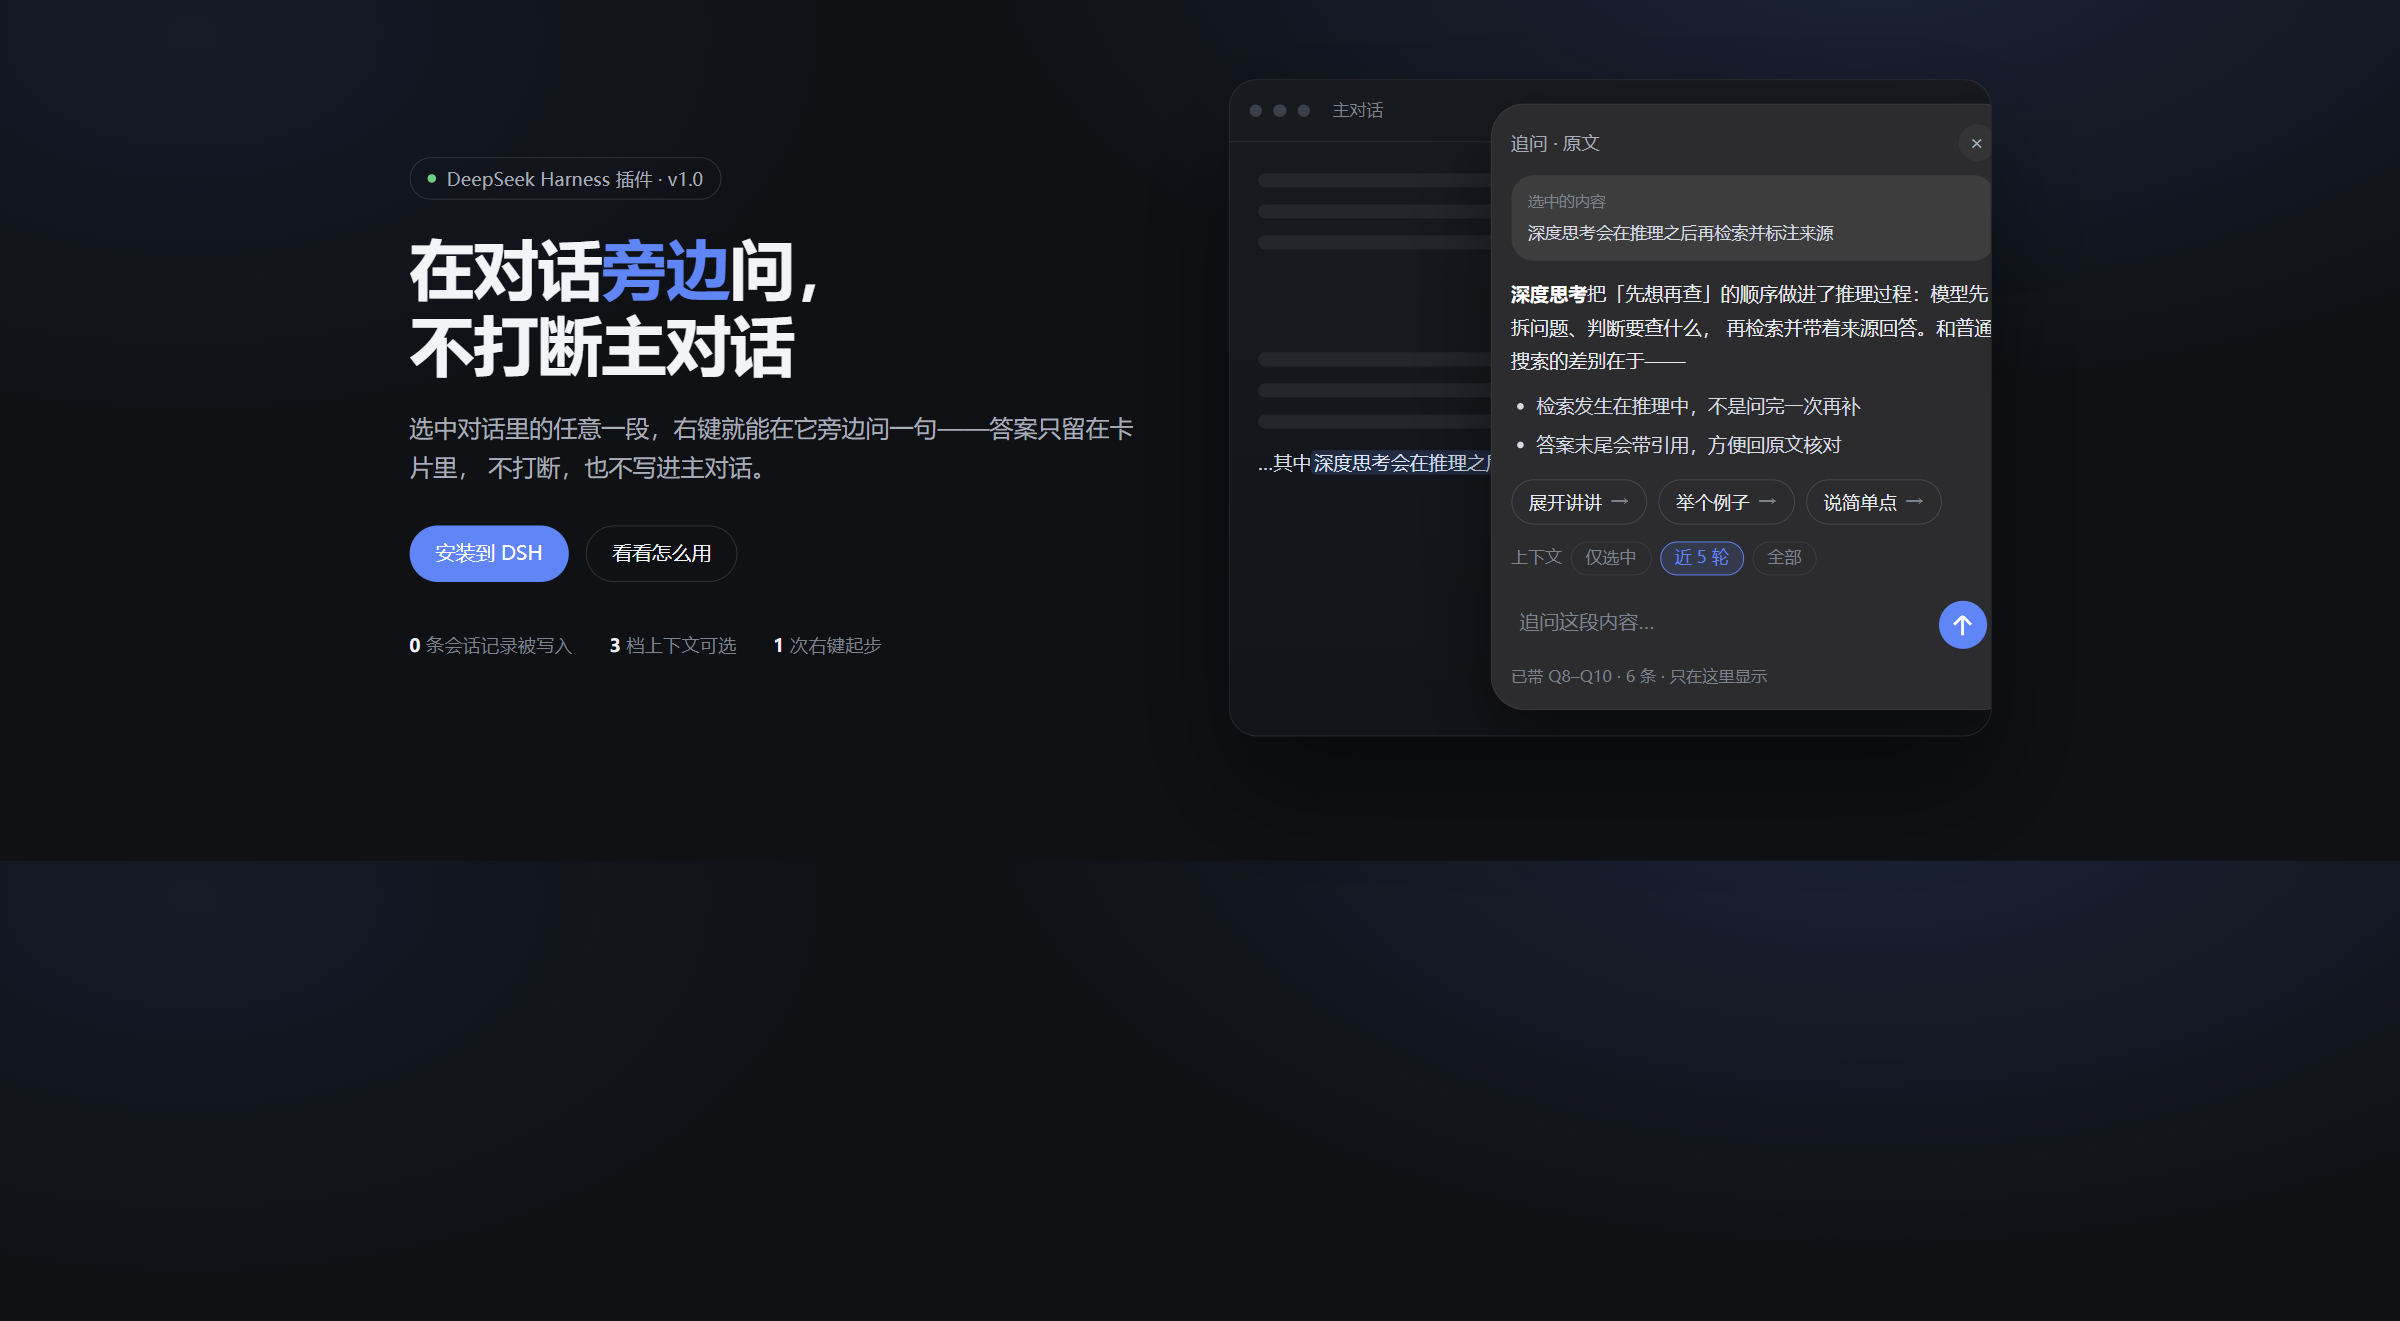
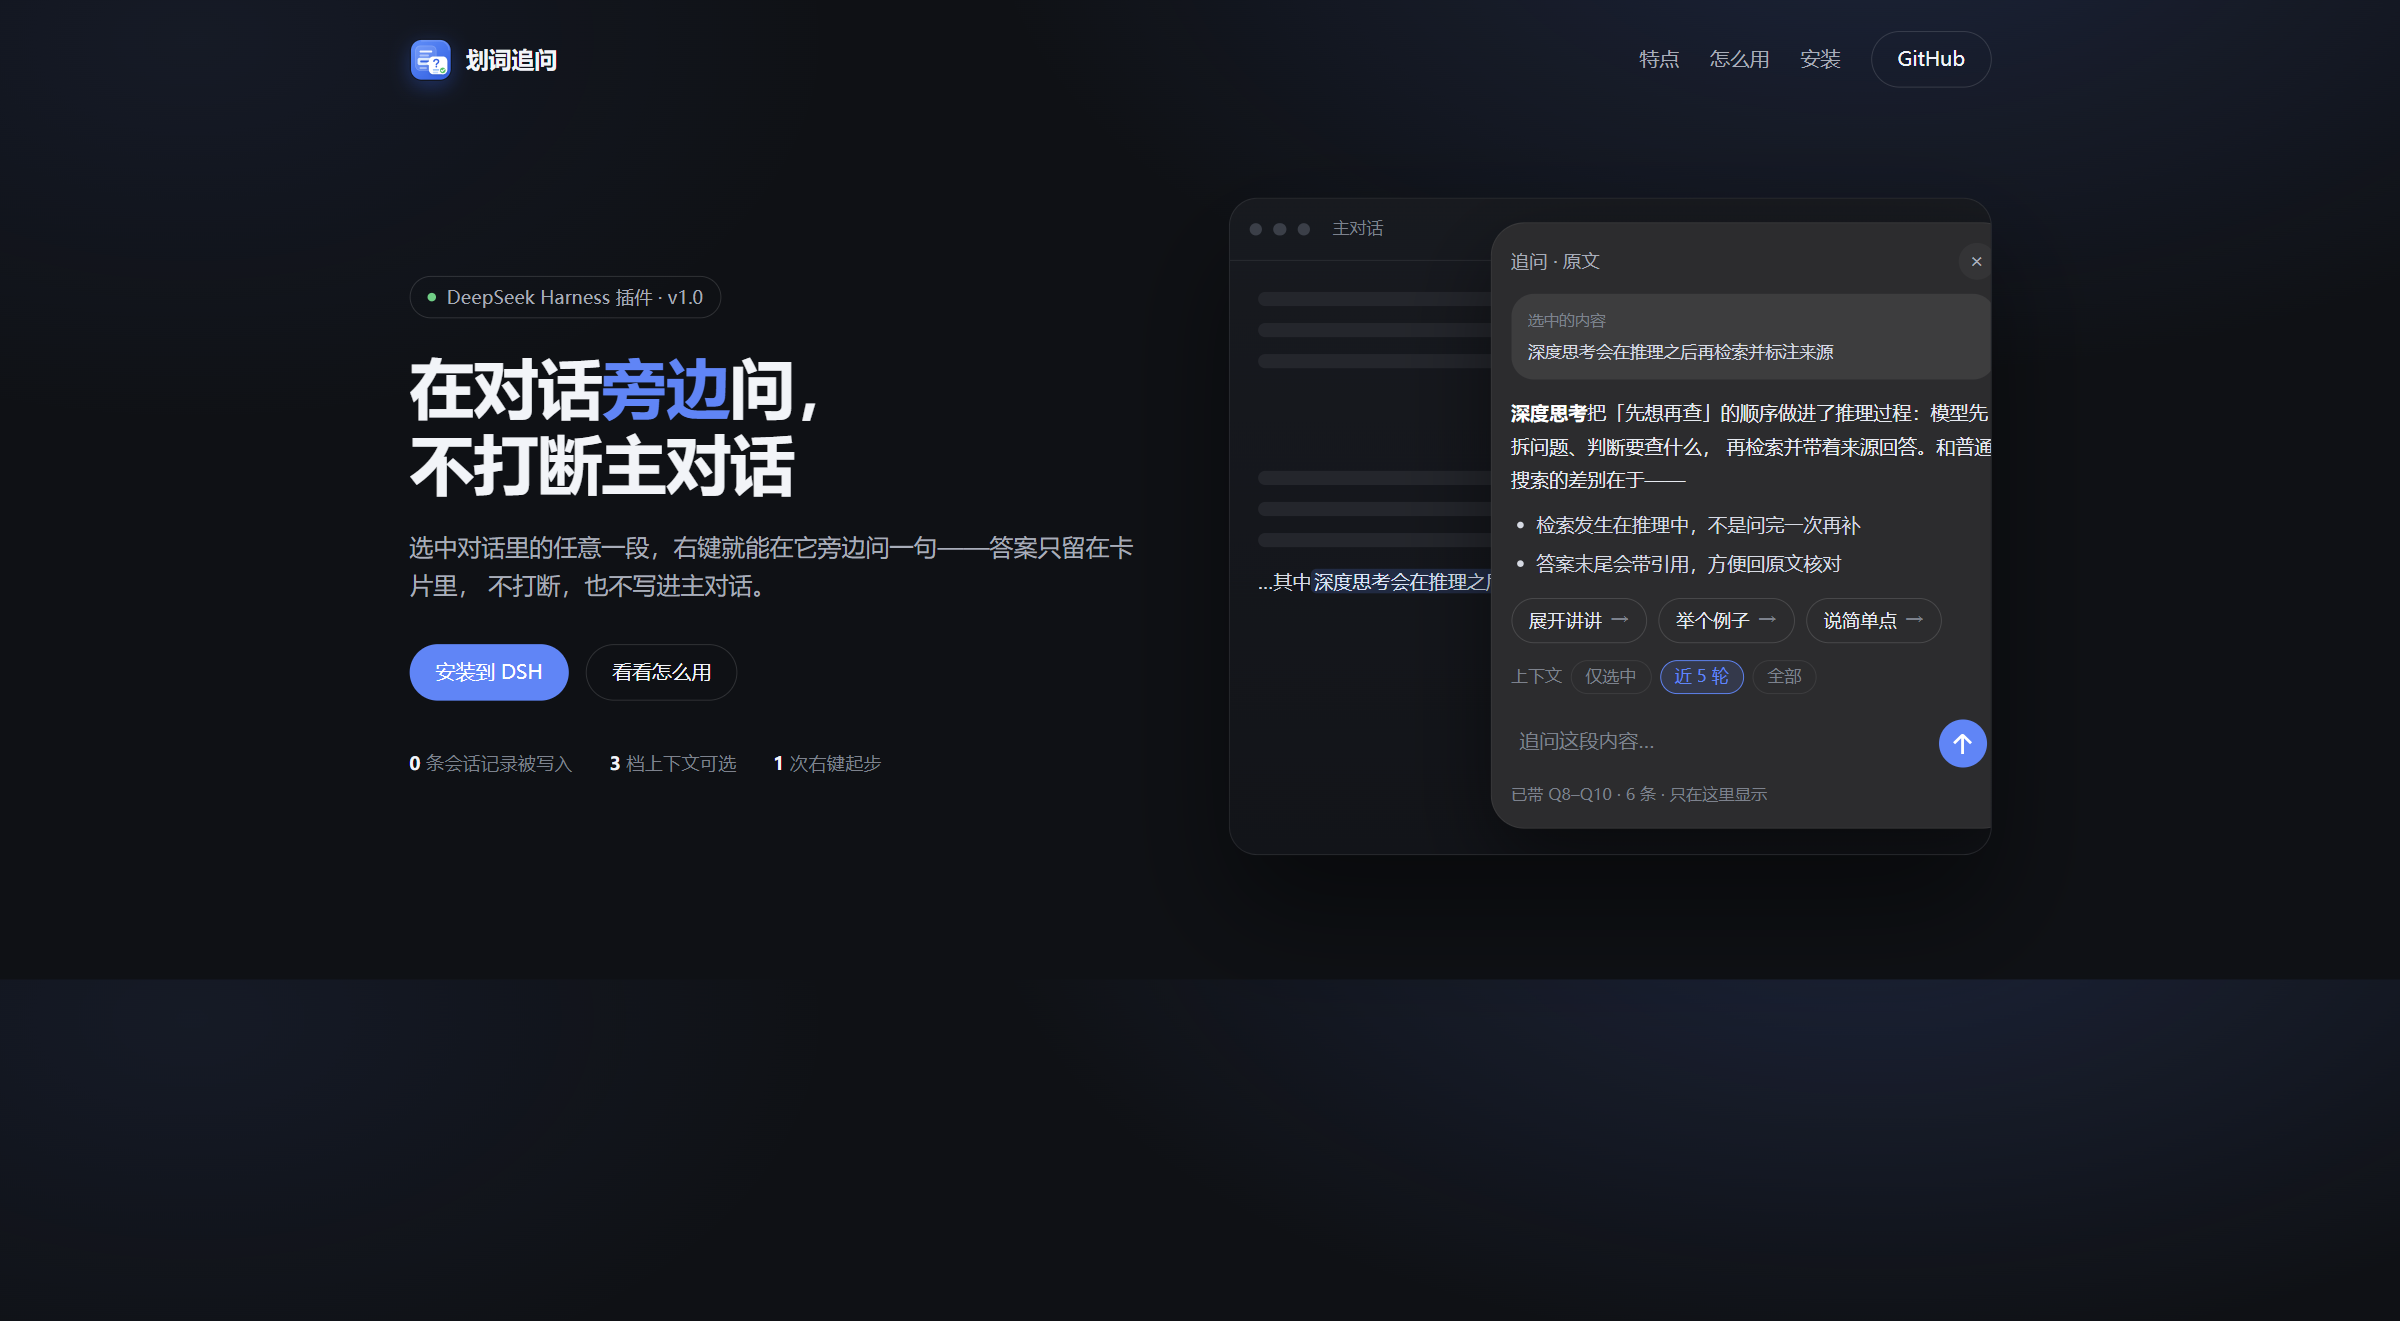
feat: 换成正式图标，展示页品牌位同步

diff --git a/site/index.html b/site/index.html
@@ -43,9 +43,10 @@
   .nav { display: flex; align-items: center; justify-content: space-between; padding: 22px 0; }
   .brand { display: flex; align-items: center; gap: 10px; font-weight: 600; letter-spacing: 0.2px; }
   .brand-mark {
-    width: 30px; height: 30px; border-radius: 9px; display: grid; place-items: center;
-    background: linear-gradient(150deg, var(--blue), #3556d8); color: #fff; font-size: 15px; font-weight: 700;
+    width: 30px; height: 30px; border-radius: 9px; display: block; overflow: hidden; flex: 0 0 auto;
+    box-shadow: 0 4px 14px rgba(37, 99, 235, 0.35);
   }
+  .brand-mark svg { display: block; width: 100%; height: 100%; }
   .nav-links { display: flex; align-items: center; gap: 22px; color: var(--muted); font-size: 14px; }
   .nav-links a:hover { color: var(--text); }
   .btn {
@@ -173,7 +174,38 @@
 <body>
   <div class="wrap">
     <header class="nav">
-      <div class="brand"><span class="brand-mark">追</span> 划词追问</div>
+      <div class="brand">
+        <span class="brand-mark" aria-hidden="true">
+          <svg viewBox="0 0 64 64" fill="none" xmlns="http://www.w3.org/2000/svg">
+            <defs>
+              <linearGradient id="sf-bg" x1="10" y1="6" x2="54" y2="60" gradientUnits="userSpaceOnUse">
+                <stop stop-color="#4F8CFF"/><stop offset="1" stop-color="#2563EB"/>
+              </linearGradient>
+              <filter id="sf-shadow" x="19" y="23" width="44" height="39" filterUnits="userSpaceOnUse" color-interpolation-filters="sRGB">
+                <feDropShadow dx="0" dy="2" stdDeviation="2" flood-color="#123B8F" flood-opacity="0.28"/>
+              </filter>
+            </defs>
+            <rect x="2" y="2" width="60" height="60" rx="16" fill="url(#sf-bg)"/>
+            <path d="M18 3.5H46C53.5 3.5 59.5 9.5 59.5 17" stroke="white" stroke-opacity="0.16" stroke-width="2" stroke-linecap="round"/>
+            <rect x="9" y="11" width="31" height="37" rx="7" fill="white" fill-opacity="0.13" stroke="white" stroke-opacity="0.24"/>
+            <rect x="15" y="18" width="19" height="3" rx="1.5" fill="white" fill-opacity="0.92"/>
+            <rect x="15" y="24" width="14" height="3" rx="1.5" fill="white" fill-opacity="0.48"/>
+            <rect x="15" y="43" width="11" height="3" rx="1.5" fill="white" fill-opacity="0.42"/>
+            <rect x="12" y="29" width="25" height="11" rx="3" fill="#DBEAFE"/>
+            <rect x="16" y="33" width="16" height="3" rx="1.5" fill="#2563EB"/>
+            <g filter="url(#sf-shadow)">
+              <path d="M36 27H50C53.866 27 57 30.134 57 34V47C57 50.866 53.866 54 50 54H36C32.134 54 29 50.866 29 47V40.4L25 37.5L29 34.6V34C29 30.134 32.134 27 36 27Z" fill="white"/>
+            </g>
+            <path d="M36.6 34.3C36.8 32.5 38.2 31.4 40.1 31.4C42.2 31.4 43.7 32.6 43.7 34.4C43.7 35.9 42.9 36.7 41.7 37.4C40.8 38 40.3 38.5 40.3 39.6" stroke="#2563EB" stroke-width="2.2" stroke-linecap="round"/>
+            <circle cx="40.3" cy="42.4" r="1.2" fill="#2563EB"/>
+            <rect x="35" y="46" width="12" height="2.4" rx="1.2" fill="#93C5FD"/>
+            <rect x="35" y="50" width="8" height="2.4" rx="1.2" fill="#BFDBFE"/>
+            <circle cx="50" cy="48" r="5" fill="#22C55E" stroke="white" stroke-width="1.5"/>
+            <path d="M47.8 48L49.2 49.4L52.3 46.4" stroke="white" stroke-width="1.6" stroke-linecap="round" stroke-linejoin="round"/>
+          </svg>
+        </span>
+        划词追问
+      </div>
       <nav class="nav-links">
         <a href="#features">特点</a>
         <a href="#how">怎么用</a>
